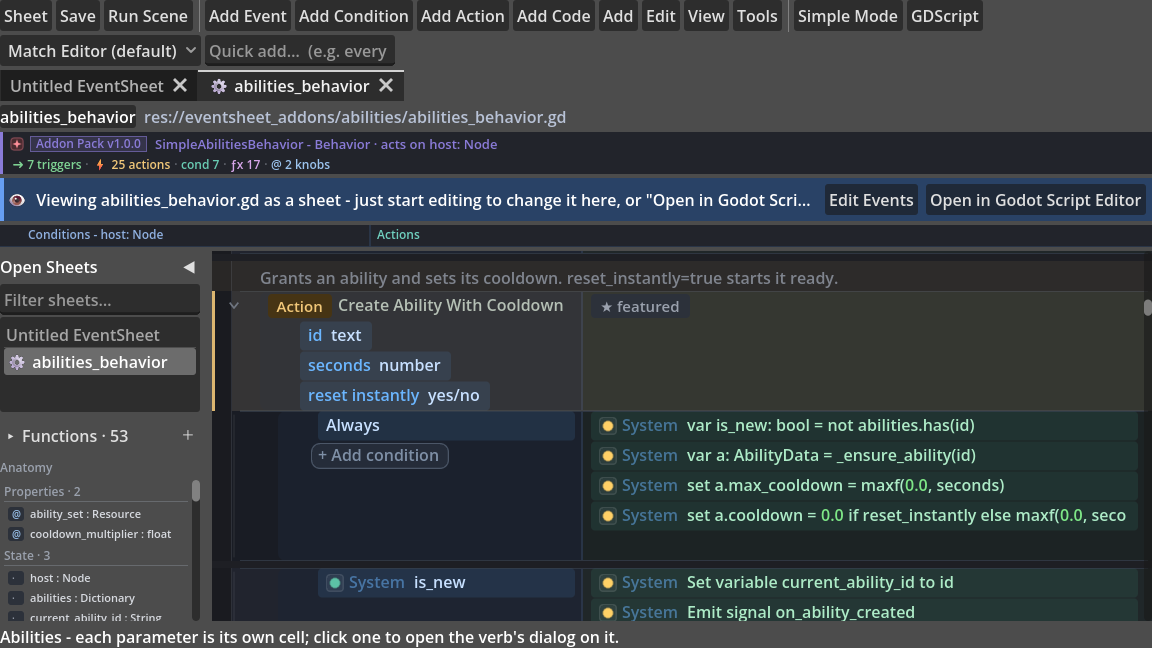
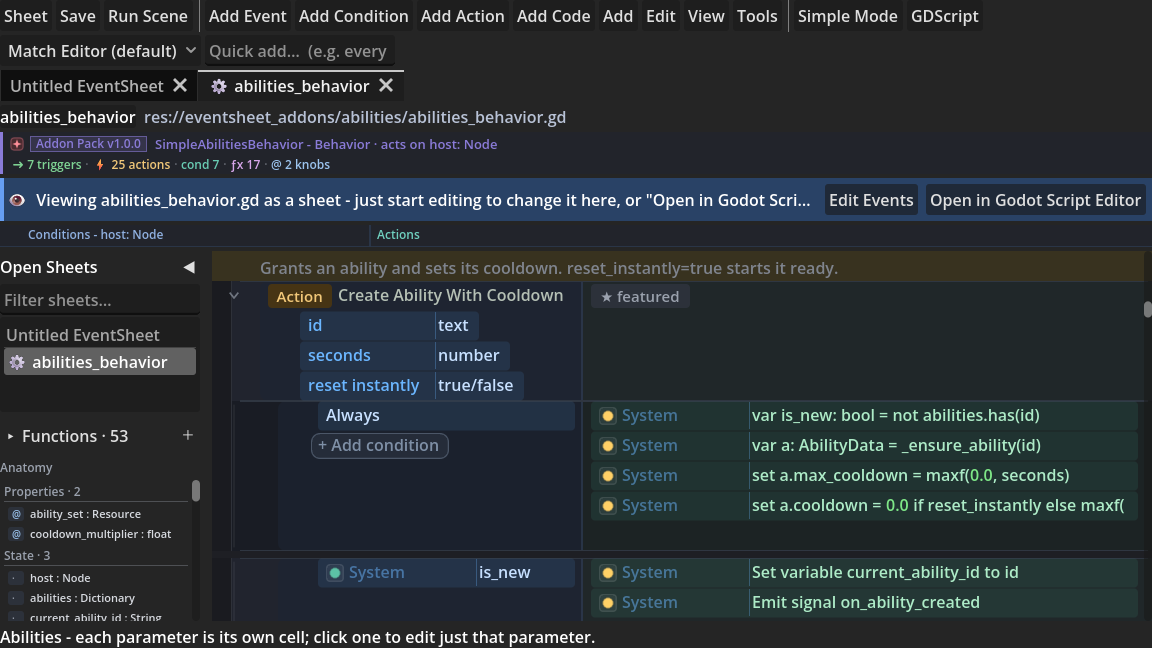
docs: regenerate the published-verb-rows shot, refresh the README
The image predated three changes and showed all three wrong: the role colour
wash behind the verb row (now off by default), a bool parameter reading
"yes/no" (now "true/false"), and a caption saying a parameter cell opens the
verb's dialog (it opens the focused Edit Parameter dialog). Reshot at the same
1152x648 framing so the doc's width="580" scales identically, and the alt text
now describes what is actually in frame - the Action badge, one cell per input,
the featured star, and the body open beneath as ordinary sub-events. It had
claimed a gives-back marker, which a void Action does not have.

README gains the reads-like-code wave in Current status and the unreleased
milestone row, plus Report an Issue in the tooling list.

diff --git a/README.md b/README.md
@@ -110,7 +110,7 @@ Drop a `class_name` script in `eventsheet_addons/` and it becomes a provider - `
 
 **Abstraction that grows with you** - a row earns its place when it does MORE than a line: multi-line ACEs show a quiet **→N** ("compiles to N lines") cue, function calls read as **ƒ named verbs**, and the picker **leads with featured intention verbs** (Wait, Play Sound, Destroy, Move Toward...). Select actions and **Extract to Function** turns the pile into one reusable verb - captured locals become typed parameters automatically - then **Teach a Verb** publishes it to every sheet's picker in the project, node-targeted and retargetable, exactly like a built-in behavior.
 
-**Tooling** - A searchable node picker, export integrity + compile-on-save, git-`textconv` sheet diffs, a **Project Doctor** (dock/CLI/CI drift audit, extensible by packs), error→row deep-linking, live debugging (Live Values, Watch box, conditional breakpoints, Event Trace with a live execution pulse - fired rows glow and fade), a committed vocabulary doc, sheet backups, shareable snippets, a public **`EventSheets` API** for building plugins on top ([guide](docs/GUIDE-BUILDING-ON-EVENTSHEETS.md)), and an opt-in MCP server for external tooling.
+**Tooling** - A searchable node picker, export integrity + compile-on-save, git-`textconv` sheet diffs, a **Project Doctor** (dock/CLI/CI drift audit, extensible by packs), error→row deep-linking, live debugging (Live Values, Watch box, conditional breakpoints, Event Trace with a live execution pulse - fired rows glow and fade), a committed vocabulary doc, sheet backups, shareable snippets, a public **`EventSheets` API** for building plugins on top ([guide](docs/GUIDE-BUILDING-ON-EVENTSHEETS.md)), **Tools ▸ Report an Issue…** (opens the tracker with your Godot and plugin versions filled in - and nothing else), and an opt-in MCP server for external tooling.
 
 ## Current status
 
@@ -120,6 +120,15 @@ Drop a `class_name` script in `eventsheet_addons/` and it becomes a provider - `
 - **Beginner creator journeys**: a **Custom Resource wizard** (three questions → a data asset whose Inspector is a fill-in table), **Sheet > New Editor Tool**, one-call validation (`attach_validator`), and any function as an **Inspector button**.
 - **C3 reflexes everywhere**: `loopindex` on every loop, the floating **Expressions dictionary** with typed autocomplete + signature hints, Alt+Enter tall expression boxes, per-pack icons on framed chips, double-height group bars with folder icons, a draggable object column in each lane, vector tempo badges, and Else as a proper condition chip.
 - **One pack pipeline**: `EventSheets.publish_pack` powers the bundled builders AND Sheet > Export Addon; pack sheets announce themselves with an **Addon Pack v1.0.0** chip (version/author/help identity); 43 packs star their hero verbs; multi-line enums are editable enum blocks now.
+- **Everything reads as an event row**: a pack's published verbs were a flat spec table and its triggers a
+  bare `signal …` strip - both now use the same two lanes as the rest of the sheet. A verb shows its kind
+  badge, name and a clickable cell per input on the left, and what it hands back on the right, with the
+  `@ace_description` you wrote as a caption above it and its body open beneath as ordinary sub-events; a
+  trigger shows its published name and typed values on the left and the real signal it `emits` on the
+  right. Verbs are spliced in the file's own order, so an opened pack reads top-to-bottom like its
+  GDScript. Clicking a parameter opens a small **Edit Parameter** dialog rather than the whole verb form,
+  a `bool` reads **true/false** (the literal you actually type), form labels explain themselves on hover,
+  and **Tools ▸ Report an Issue…** opens the tracker with your Godot and plugin versions pre-filled.
 - **This week's wave**: **Gravity Angle / Gravity Direction** on Platformer, Bullet, Bullet 3D, and the FPS Controller (walk on walls and ceilings, one knob, bit-exact defaults), formal **pack dependencies** (`@ace_requires` + a Doctor check) and **pack identity** (`@ace_version`/author/help, every pack stamped 1.0.0), **full async-events parity** (freed objects unpicked across waits, an hourglass on awaiting actions, the **Once At A Time** gate, and awaiting events split so per-frame siblings never freeze), plus **Connect Signal to Event Sheet**, **Inspector property drag-in**, the **live execution pulse**, and Discord-style **BBCode formatting** on rich params.
 - **The release bar**: [GDScript-basics coverage](docs/GDSCRIPT-BASICS-COVERAGE.md) - every fundamental on Godot's basics page as sheet rows, suite-pinned.
 - **Three new packs** (75 total): **UHTN Planning**, its **UHTNPlanResource**, and **Platform Info**.
@@ -154,7 +163,7 @@ _Recent releases before this:_ **v0.14.0** (Platformer Pathfinding + Nav Agent 3
 | `v0.13.0` - **The Genre Toolkits Update**: a complete incremental/idle kit (Big Numbers + a Decimal type, Idle Generator, Click Power, Boosts, Upgrades, Prestige, Milestones), composition/ECS-lite Systems + Entity System starter, Advanced Random driving the procedural packs behind one seed + a stateless Procedural module for tools and resources, data-driven Simple Abilities loadouts + a RandomTableResource, and auto-registering pack builders (58 packs) | ✅ shipped |
 | `v0.14.0` - **The Pathfinding & Game-Feel Update**: Platformer Pathfinding (2D jump graphs with portals, patrol discipline, variable jumping, a stuck watchdog, follow mode, and a shared path budget) + Nav Agent 3D (navmesh, same verbs), the universal AI drive seam across the movement packs, FPS movement tech (crouch/slide/wall ride/wall jump), Juice camera verbs 2D + the Juice 3D pack, the live Input Map picker + the input vocabulary + the Input Rebind showcase, editor behavior previews, twelve API extension seams, EFIGS editor translations, and a ~21x faster boot (62 packs) | ✅ shipped |
 | `v0.15.0` - **Save Anything, Control Anything & BBcode it**: the `save_state`/`load_state` seam on 18 packs + persist-group automation + node/group/singleton verbs, six lossless save formats (config/JSON/binary/CSV/INI/XML) with read + format-detection helpers, the Save Studio (preview/export/generate) on a new `EventSheets` Save API + a Doctor check + data-loss hardening, the player-or-AI input seam on every input-reading pack + AI drag & drop, pathfinding hazards + moving platforms, a Discord-style BBCode bar in comments, StatForge stats, Juice color tints, rounded corners, the Rotate pack + circular Wrap, and two tool guides + a docs index (70 packs) | ✅ shipped |
-| _Unreleased on `main`_ - **The Creator Experience wave**: 8 editor languages + hot-reload, the Custom Resource wizard + editor-tool journey, loopindex + the Expressions dictionary, per-pack icons + featured hero verbs + the Addon Pack chip, `EventSheets.publish_pack`, multi-line enum blocks, the GDScript-basics coverage receipt, and the UHTN Planning / Platform Info packs (75 packs) | 🚧 in repo |
+| _Unreleased on `main`_ - **The Creator Experience wave**: 8 editor languages + hot-reload, the Custom Resource wizard + editor-tool journey, loopindex + the Expressions dictionary, per-pack icons + featured hero verbs + the Addon Pack chip, `EventSheets.publish_pack`, multi-line enum blocks, the GDScript-basics coverage receipt, and the UHTN Planning / Platform Info packs (75 packs); then **the reads-like-code pass**: published verbs and triggers flipped into the two-lane condition/action model in file order, the focused Edit Parameter dialog, C3-aligned object columns + a full-height divider guide, self-explaining form labels, Report an Issue, and the macOS HiDPI fix | 🚧 in repo |
 | _Roadmap_ - community feedback, polish, and whatever you ask for next | 🗺 planned |
 
 ## Project layout

diff --git a/docs/GUIDE-MAKE-A-BEHAVIOUR-WITHOUT-CODE.md b/docs/GUIDE-MAKE-A-BEHAVIOUR-WITHOUT-CODE.md
@@ -106,7 +106,7 @@ Each published verb reads on the canvas the same way every other event row does:
 
 A verb's parameters render as condition-style cells beneath its name: click one and you get a small **Edit Parameter** dialog holding just that input - its name, type, optional default and description - with `Edit the whole verb…` inside it if the verb itself is what you meant. `+ Add parameter` opens the same small dialog, blank. A verb's body is **open by default** (only a verb nested inside a group or a `#region` starts folded), and a body row with no conditions reads **Always** - it runs whenever the verb is called, which is why it does not say "Every Tick" like a sheet-level event would. Hover a verb to read its full declaration, including its category and each parameter's type, default and blurb.
 
-<img src="images/published-verb-rows.png" alt="Published verbs on the canvas: each Action row shows its description as a caption above it, the kind badge and name on the left with clickable parameter cells beneath, and the featured star plus the gives-back marker on the right." width="580">
+<img src="images/published-verb-rows.png" alt="A published verb on the canvas: its description as a caption above it, the Action badge and name on the left with a clickable parameter cell per input (id: text, seconds: number, reset instantly: true/false), the featured star on the right, and its body open beneath as ordinary event rows starting from Always." width="580">
 
 Verbs appear in the order the file declares them - after the sheet's own events, exactly where the compiler writes them - so an opened pack reads top to bottom like its GDScript. The left-rail **Anatomy panel** shows everything you've published at a glance, organ by organ:
 